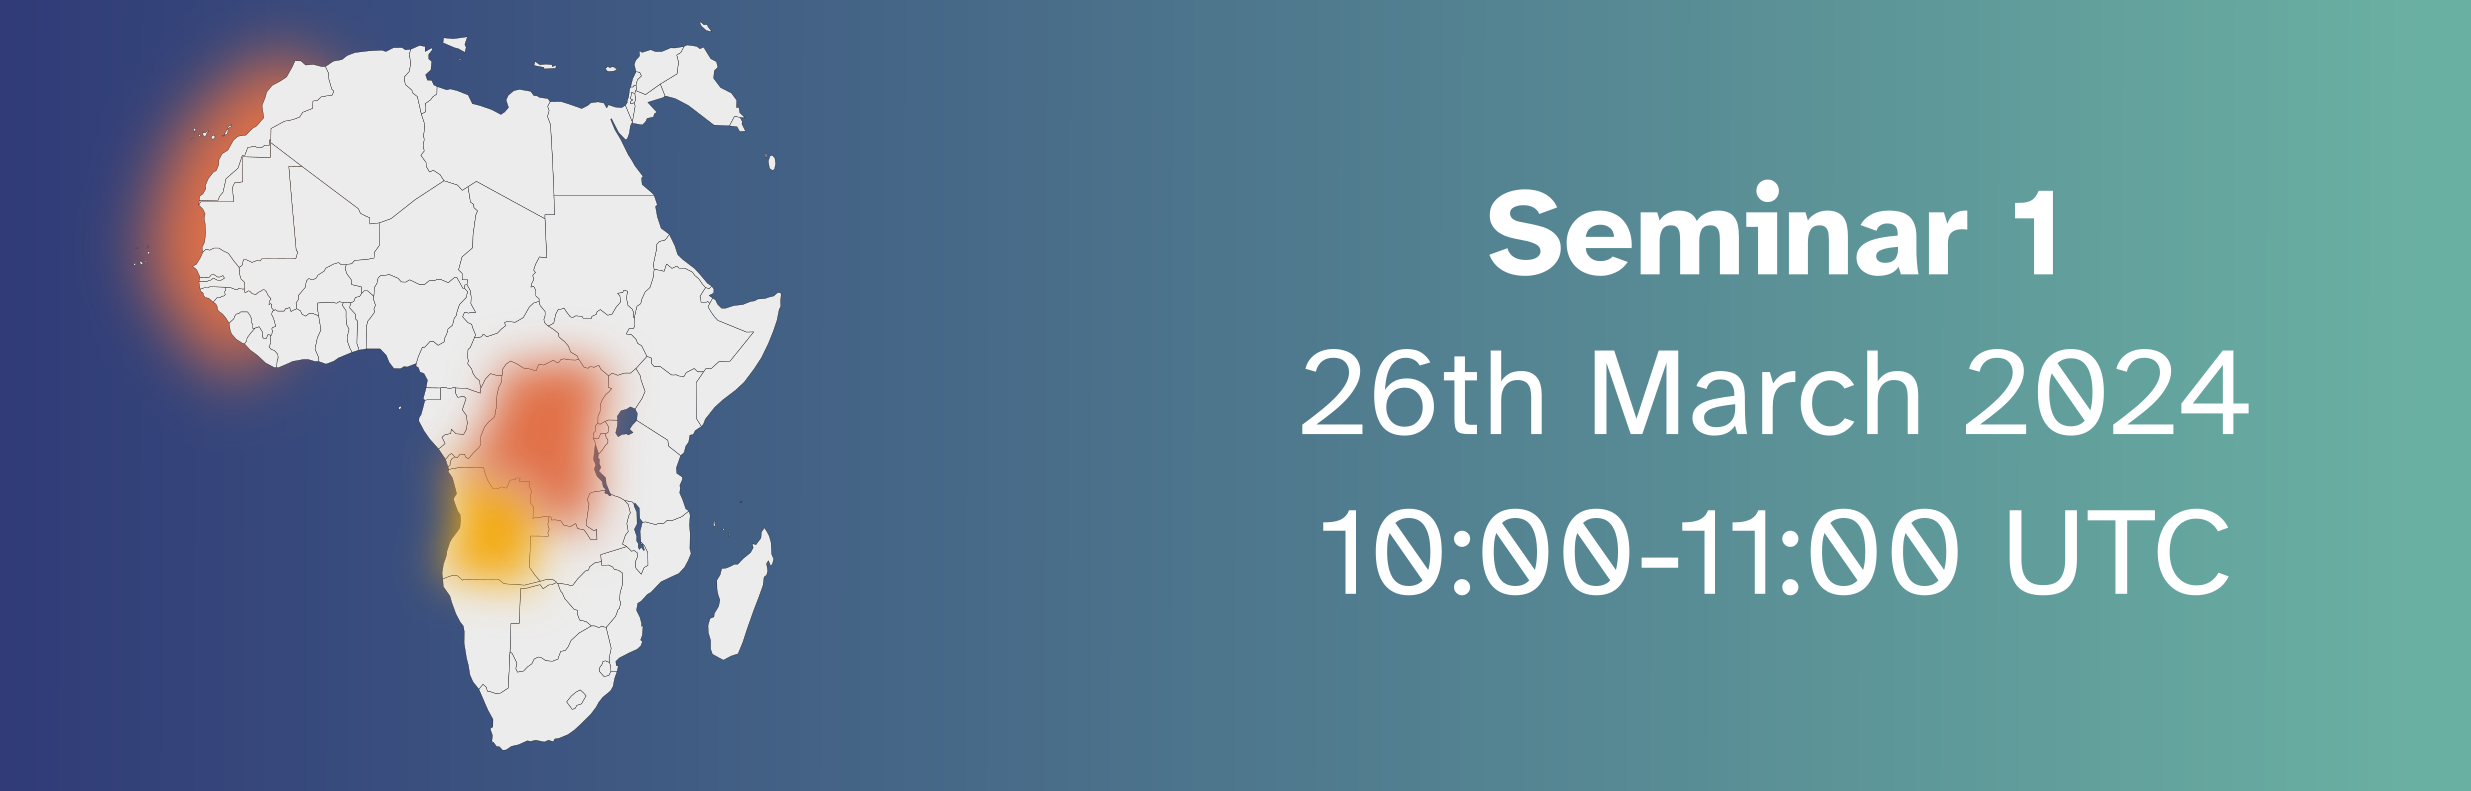
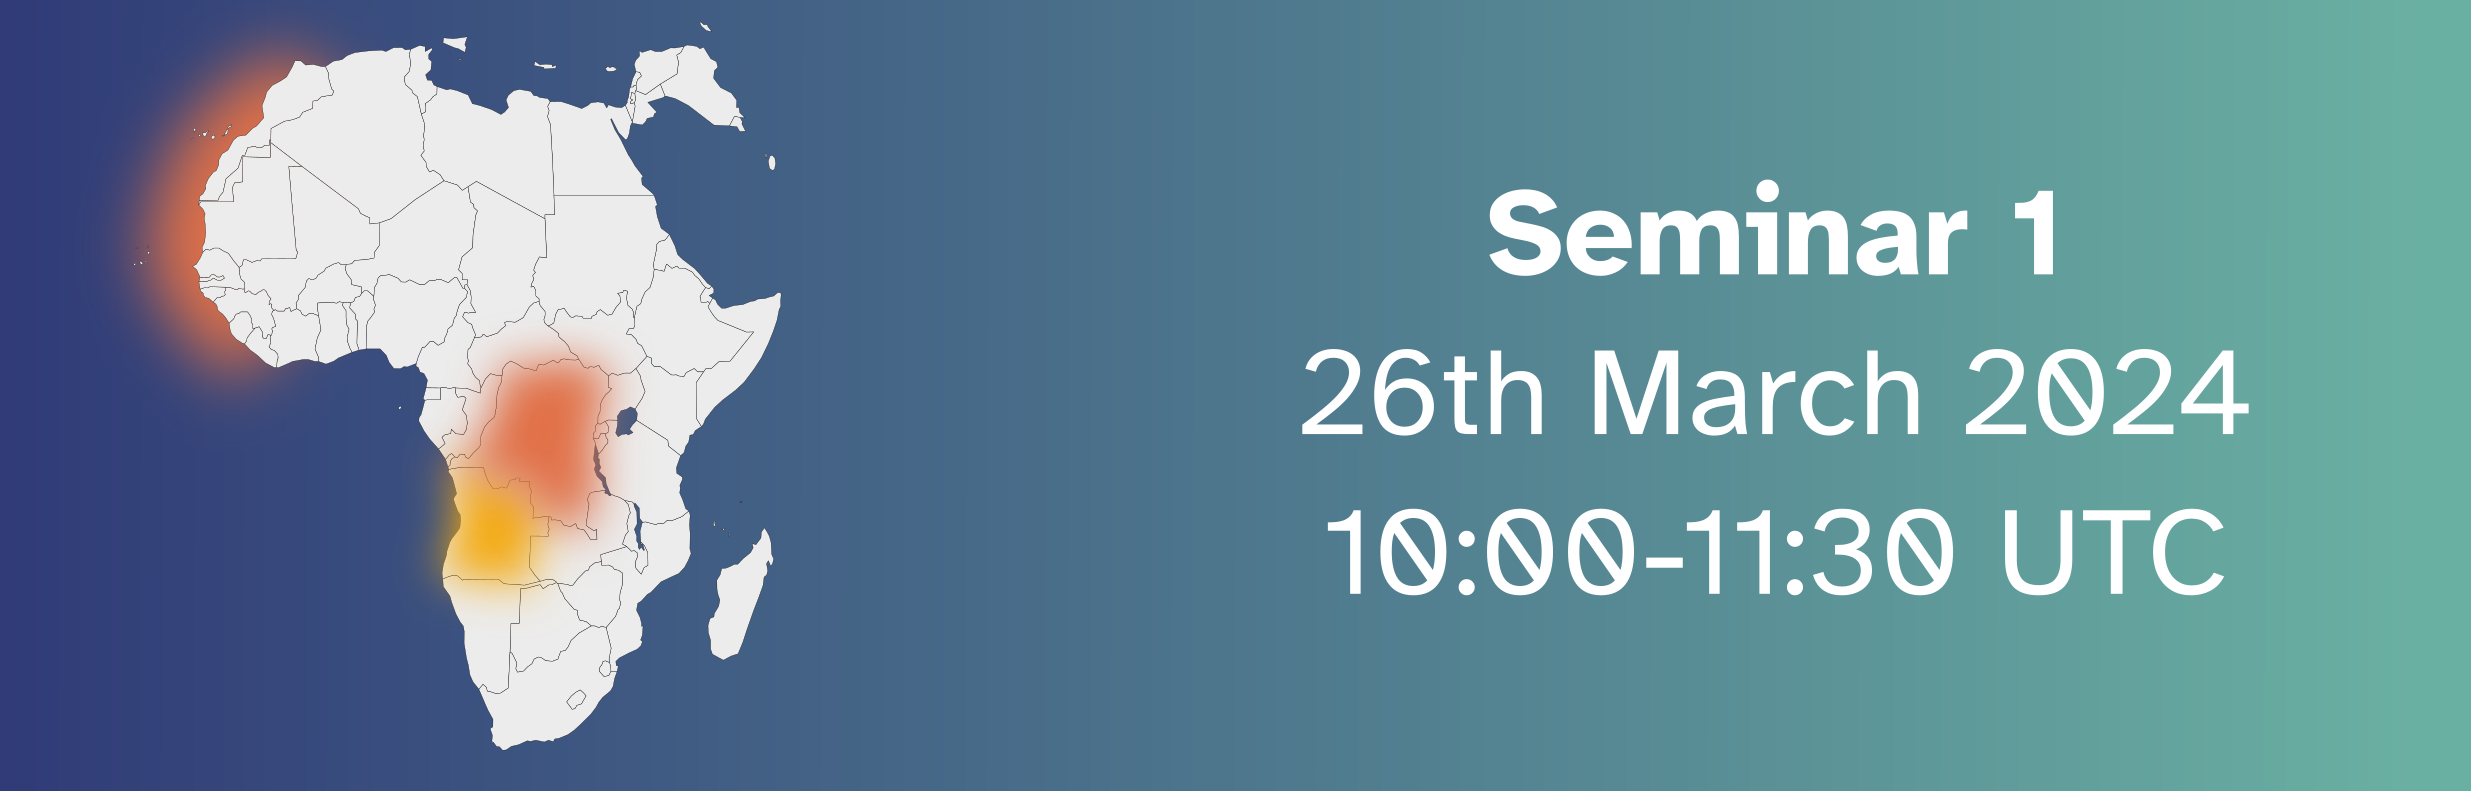
Change the default event duration

Changed region(s): [[0.5297, 0.6372, 0.9037, 0.7585]]

diff --git a/output-guidelines/seminar_presentations.md b/output-guidelines/seminar_presentations.md
@@ -4,9 +4,9 @@ The first cohort of Climatematch Impact Scholars will share their work in a seri
 
 These seminars will be <u>open to the public</u>. Please register for the seminars of interest below!
 
-The presenting scholars will additionally engage in <u>30-minute networking sessions</u> with scientists from CMIP and LEAP *immediately after* the seminar times stated on this page.
+The <u>last 30 minutes of each event</u> will be dedicated to networking sessions between the presenting scholars and scientists from CMIP and LEAP.
 
-## Seminar 1: 26th March, 10:00-11:00 UTC
+## Seminar 1: 26th March, 10:00-11:30 UTC
 ```{figure} ../impact-scholars/images/seminar_banner_1.png
 ---
 width: 100%
@@ -22,7 +22,7 @@ width: 100%
 
 <hr style="border:2px solid gray">
 
-## Seminar 2: 26th March, 13:00-14:30 UTC
+## Seminar 2: 26th March, 13:00-15:00 UTC
 ```{figure} ../impact-scholars/images/seminar_banner_2.png
 ---
 width: 100%
@@ -41,7 +41,7 @@ width: 100%
 <hr style="border:2px solid gray">
 
 
-## Seminar 3: 27th March, 16:00-17:30 UTC
+## Seminar 3: 27th March, 16:00-18:00 UTC
 ```{figure} ../impact-scholars/images/seminar_banner_3.png
 ---
 width: 100%
@@ -60,7 +60,7 @@ width: 100%
 <hr style="border:2px solid gray">
 
 
-## Seminar 4: 27th March, 21:00-22:00 UTC
+## Seminar 4: 27th March, 21:00-22:30 UTC
 ```{figure} ../impact-scholars/images/seminar_banner_4.png
 ---
 width: 100%
